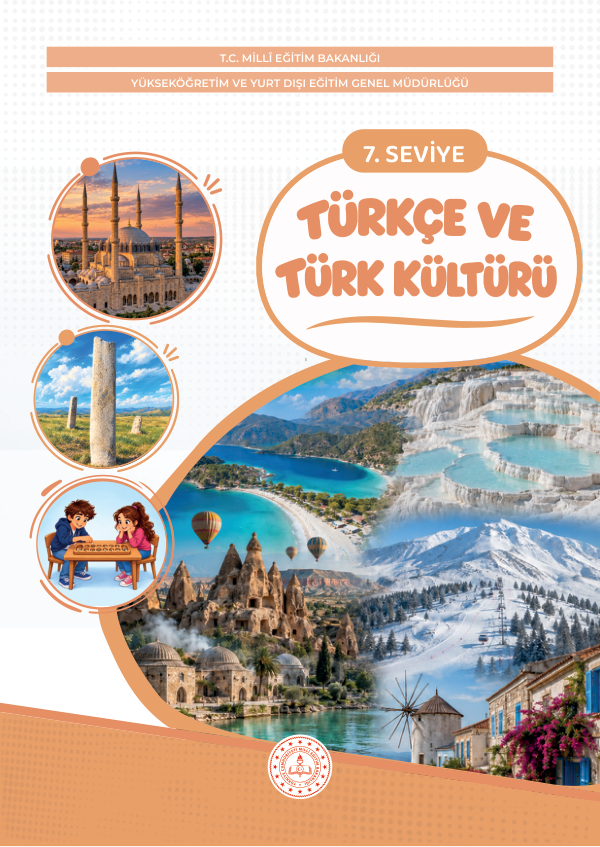
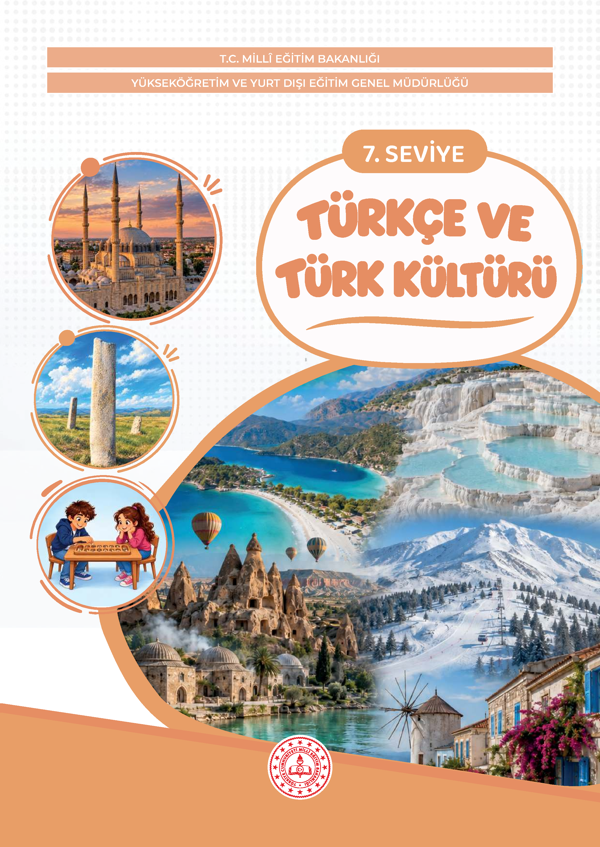
7. seviye kapak

diff --git a/index.html b/index.html
@@ -128,7 +128,7 @@
       };
 
       const img = document.createElement("img");
-      img.src = `icons/${i < 10 ? "0" + i : i}.png`;
+      img.src = `icons/${i < 10 ? "0" + i : i}.png` + (location.protocol.startsWith('http') ? '?v=2' : '');
       img.alt = `Kitap ${i}`;
       img.width = 230;
       img.height = 325;
